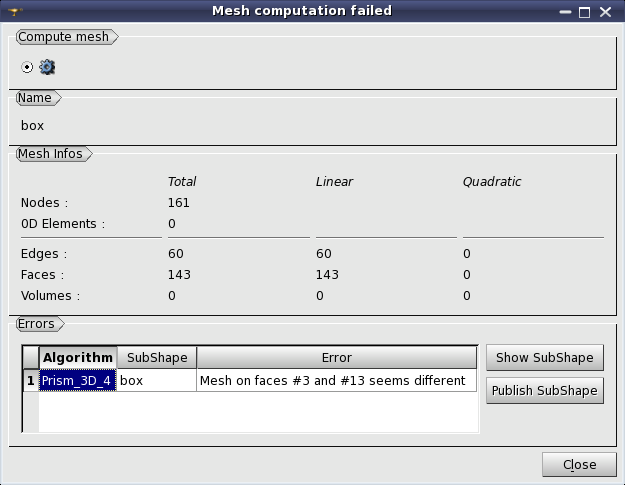
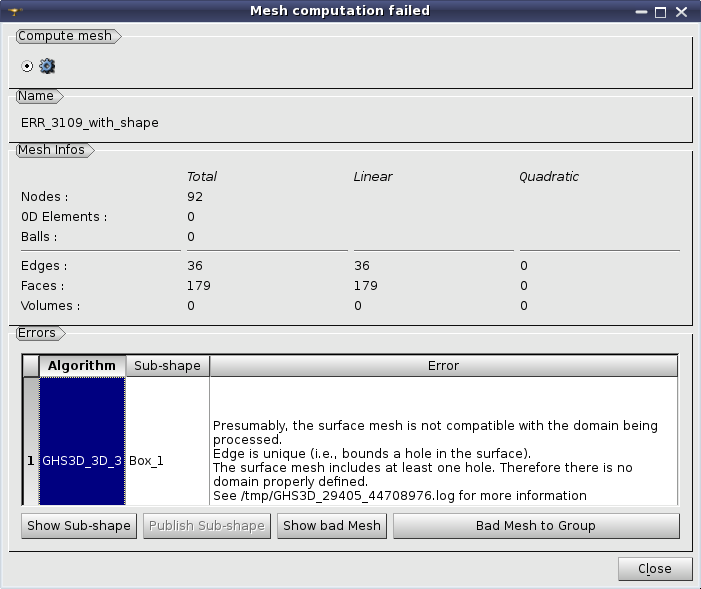
0022107: EDF 2502 SMESH: Publish the result of show bad mesh in a group

diff --git a/src/SMESHGUI/SMESH_msg_en.ts b/src/SMESHGUI/SMESH_msg_en.ts
@@ -4604,6 +4604,10 @@ Please, create VTK viewer and try again</translation>
         <source>SHOW_BAD_MESH</source>
         <translation>Show bad Mesh</translation>
     </message>
+    <message>
+        <source>GROUP_OF_BAD_MESH</source>
+        <translation>Bad Mesh to Group</translation>
+    </message>
 </context>
 <context>
     <name>SMESHGUI_PrecomputeDlg</name>
@@ -5496,15 +5500,15 @@ Please enter correct value and try again</translation>
         <translation>OCTA12</translation>
     </message>
     <message>
-        <source>ENTITY_TYPE_21</source>
+        <source>ENTITY_TYPE_22</source>
         <translation>POLYEDRE</translation>
     </message>
     <message>
-        <source>ENTITY_TYPE_22</source>
+        <source>ENTITY_TYPE_23</source>
         <translation>QPOLYEDRE</translation>
     </message>
     <message>
-        <source>ENTITY_TYPE_23</source>
+        <source>ENTITY_TYPE_24</source>
         <translation>BALL</translation>
     </message>
     <message>

diff --git a/src/SMESHGUI/SMESHGUI_ComputeDlg.h b/src/SMESHGUI/SMESHGUI_ComputeDlg.h
@@ -99,6 +99,7 @@ protected slots:
   void                           onPreviewShape();
   void                           onPublishShape();
   void                           onShowBadMesh();
+  void                           onGroupOfBadMesh();
   void                           currentCellChanged();
 
 private:
@@ -226,6 +227,7 @@ protected:
   QPushButton*                 myShowBtn;
   QPushButton*                 myPublishBtn;
   QPushButton*                 myBadMeshBtn;
+  QPushButton*                 myBadMeshToGroupBtn;
 
   SMESHGUI_MeshInfosBox*       myBriefInfo;
   SMESHGUI_MeshInfosBox*       myFullInfo;
